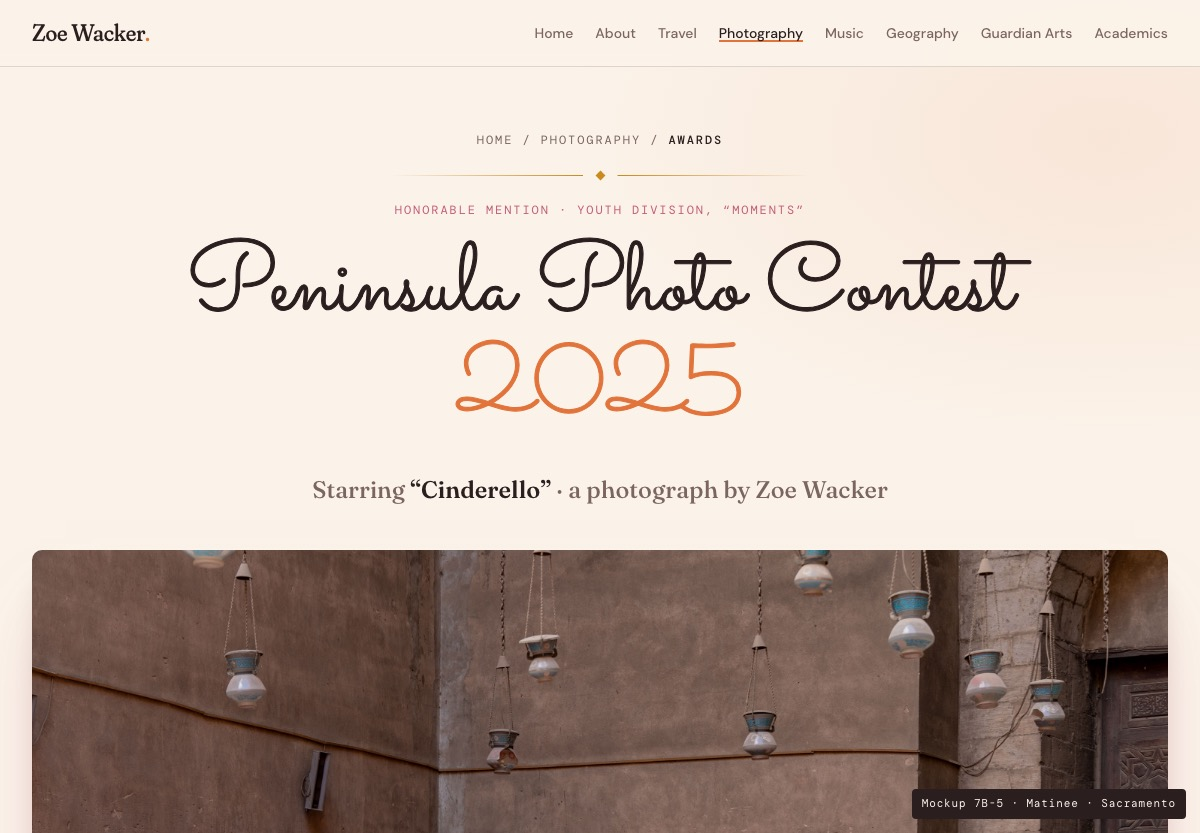
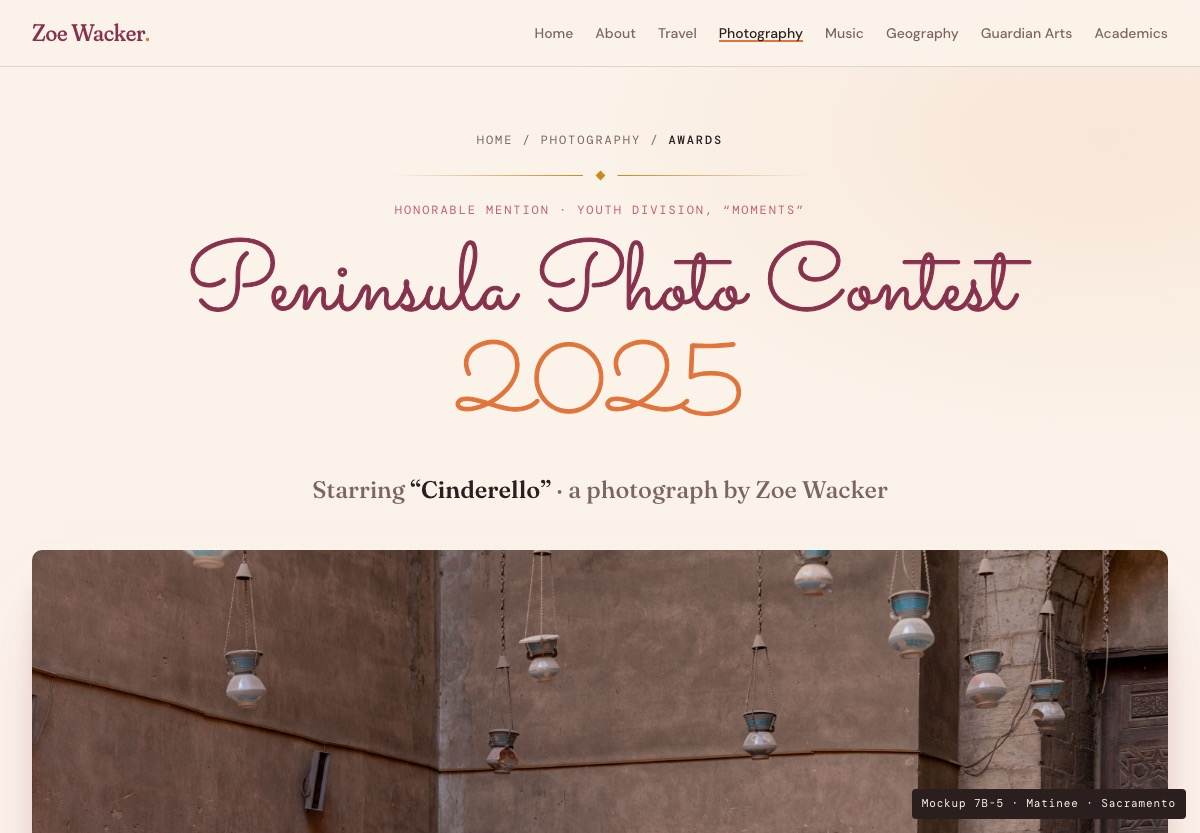
design: 7B-5 cursive name and headings in deep rose #87314D (7:1+)

Changed region(s): [[0.4317, 0.2809, 0.8633, 0.3745], [0.1542, 0.2809, 0.4317, 0.3745], [0.0308, 0.0312, 0.1233, 0.0624]]

diff --git a/design/themes/7B-5/award.html b/design/themes/7B-5/award.html
@@ -162,6 +162,10 @@
   h2{font-size:clamp(56px,7.0vw,94px) !important}
   /* Sacramento has one thin weight: thicken it to a regular pen line */
   h1,h2,.foot .big{-webkit-text-stroke:.011em currentColor;paint-order:stroke fill}
+  /* dark rose for the cursive name and headings (7:1+ on cream) */
+  :root{--deeprose:#87314D}
+  h1,h2,.mark{color:var(--deeprose) !important}
+  h1 span,.mark span{color:var(--orange) !important}
 </style>
 <script>document.documentElement.classList.add('js')</script>
 </head>

diff --git a/design/themes/7B-5/index.html b/design/themes/7B-5/index.html
@@ -239,6 +239,10 @@
   h2{font-size:clamp(56px,7.0vw,94px) !important}
   /* Sacramento has one thin weight: thicken it to a regular pen line */
   h1,h2,.foot .big{-webkit-text-stroke:.011em currentColor;paint-order:stroke fill}
+  /* dark rose for the cursive name and headings (7:1+ on cream) */
+  :root{--deeprose:#87314D}
+  h1,h2,.mark{color:var(--deeprose) !important}
+  h1 span,.mark span{color:var(--orange) !important}
 </style>
 <script>document.documentElement.classList.add('js')</script>
 </head>
